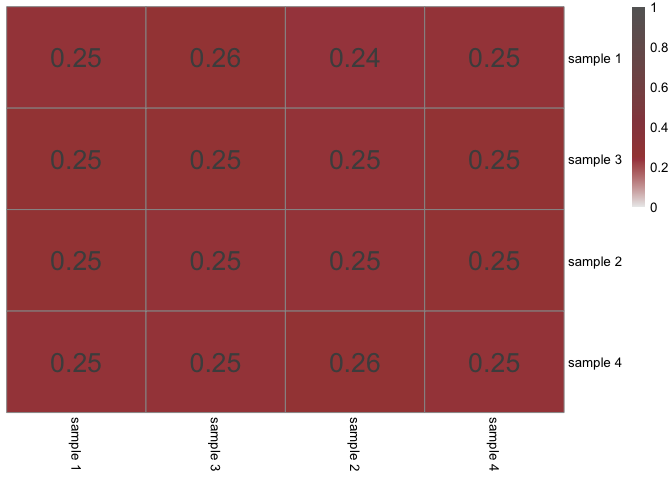
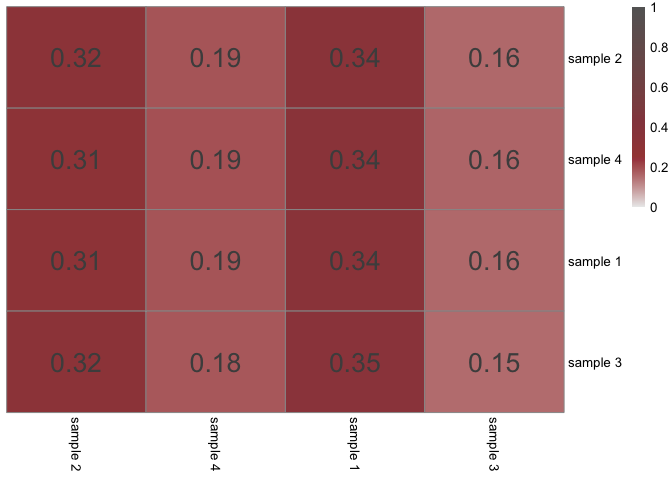
update package and README

diff --git a/README.md b/README.md
@@ -8,7 +8,7 @@ Sample homogeneiTy-Score) as introduced in “*Reconstitution of Human
 Brain Cell Diversity in Organoids via Four Protocols*” ([Naas et al.
 2024](#ref-naas_reconstitution_2024), *bioRxiv*).
 
-It is compatible with a typical `Seurat`([Hao et al.
+It is compatible with a typical `Seurat` ([Hao et al.
 2024](#ref-hao_dictionary_2024)) workflow to analyse single-cell
 RNA-sequencing (scRNA-seq) data.
 
@@ -59,12 +59,13 @@ cell in the dataset, which has non-uniform global frequencies and shows
 a near-perfect mixedness of samples across the whole dataset:
 
 ``` r
-obj$sample_random <- sample(c(rep(1,3),rep(2,3),3,4), dim(obj)[1], replace = T)
+set.seed(123)
+obj$sample_random <- sample(c(rep(1,2),rep(2,2),3,4), dim(obj)[1], replace = T)
 obj$sample_random <- paste0("sample ", obj$sample_random)
 table(obj$sample_random)
 #> 
 #> sample 1 sample 2 sample 3 sample 4 
-#>     1009      987      319      323
+#>      879      885      441      433
 
 DimPlot(obj, group.by = "sample_random")
 ```
@@ -118,21 +119,31 @@ the other hand, cells of sample 1 and 2 mix and hence have higher
 NEST-Scores.
 
 The NEST-Score function also provides pairwise evaluations of how well
-two considered samples mix on average:
+two considered samples mix on average, either plotting the average
+scaled frequencies across cells of a sample
 
 ``` r
 NESTres <- NESTscore(obj, group_by = "sample_random", k_nn = 30, ndims = 50, 
-                     return_pairwise_eval = T, show_heatmap = T)
+                     return_pairwise_eval = T, show_heatmap = T, scale_column = F)
 ```
 
 <img src="man/figures/README-nest3-1.png" width="50%" />
 
+or column-wise scaled:
+
 ``` r
-NESTres <- NESTscore(obj, group_by = "sample_grouped", k_nn = 30, ndims = 50, 
-                     return_pairwise_eval = T, show_heatmap = T)
+NESTres <- NESTscore(obj, group_by = "sample_random", k_nn = 30, ndims = 50, 
+                     return_pairwise_eval = T, show_heatmap = T, scale_column = T)
 ```
 
 <img src="man/figures/README-nest4-1.png" width="50%" />
+
+``` r
+NESTres <- NESTscore(obj, group_by = "sample_grouped", k_nn = 30, ndims = 50, 
+                     return_pairwise_eval = T, show_heatmap = T, scale_column = T)
+```
+
+<img src="man/figures/README-nest5-1.png" width="50%" />
 
 #### References
 
